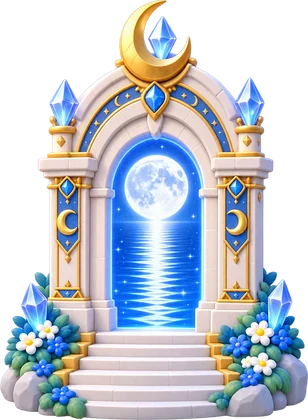
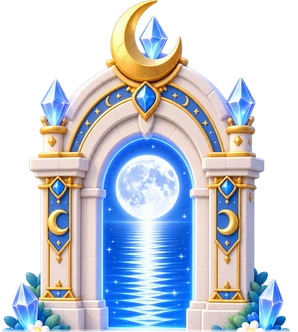
Boss Battle: big stairless world gates (admin 4615 interim)
- each world's gate cut at the portal threshold (no stairs); w2 rebuilt symmetric from its clean left half
- GATE_AT h 330 -> 455 on the platform back edge, opaque so the small baked gate + stairs never show through
  (pixel check: baked gate fully covered on all 11 plates)

diff --git a/src/games/BossBattle.tsx b/src/games/BossBattle.tsx
@@ -224,7 +224,7 @@ const bossFor = (world?: number): Boss => {
 }
 // the world gate behind the fighters: on the back of the arena between them, slightly soft and dimmed so the fight reads
 let fireN = 0
-const GATE_AT = { x: 498, y: 930, h: 330 }
+const GATE_AT = { x: 498, y: 930, h: 455 }   // admin 4615: stairless gate (cut at the threshold), ~1.75x the old arch, standing on the platform back edge; covers the baked small gate + stairs
 // 3D hero (battle page built from the live wardrobe: live face warp; el=10 camera, yaw 0 = the 2D hero's 3/4 view; 5:7 frame):
 // measured figure 0.231..0.781, foot x 0.486, right hand at the cast release 0.529,0.629
 const H3D = { top: 0.231, bot: 0.781, foot: 0.486, hand: [0.529, 0.629] }

diff --git a/src/games/bossbattle.css b/src/games/bossbattle.css
@@ -119,4 +119,4 @@
 .bb2-hero3d { transition: opacity .25s ease; }
 
 /* the world's gate behind the fight (admin 4477): on the back of the arena, soft and dimmed */
-.bb2-gate { position: absolute; z-index: 1; width: auto; pointer-events: none; filter: blur(1.2px) brightness(.88) saturate(.9); opacity: .92; }
+.bb2-gate { position: absolute; z-index: 1; width: auto; pointer-events: none; filter: blur(1.2px) brightness(.88) saturate(.9); opacity: 1; }   /* opaque: it covers the small gate baked into the plate (admin 4615) */
